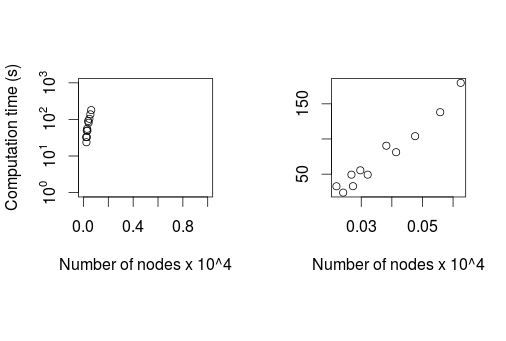
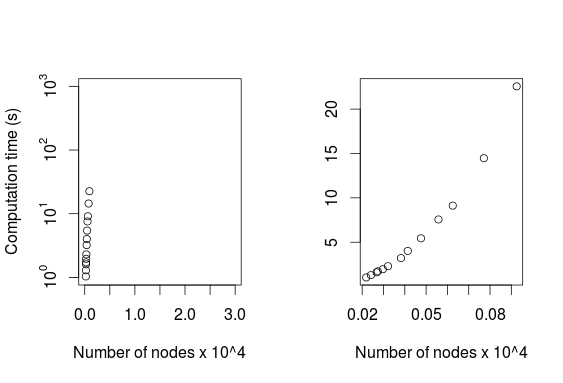
converted package from aont to RGBL

diff --git a/README.md b/README.md
@@ -1,9 +1,9 @@
 dciR
 ====
 
-A modification of the directional connectivity index calculation from Larsen et al. (2012). Essentially replaces [MatlabBGL](http://dgleich.github.com/matlab-bgl/) with [octave-networks-toolbox](https://github.com/aeolianine/octave-networks-toolbox). For convenience, Octave is called from R using [RcppOctave](http://cran.r-project.org/web/packages/RcppOctave/index.html).
+A modification of the directional connectivity index calculation from Larsen et al. (2012). Essentially replaces [MatlabBGL](http://dgleich.github.com/matlab-bgl/) with [RBGL](http://www.bioconductor.org/packages/release/bioc/html/RBGL.html). For convenience, Octave is called from R using [RcppOctave](http://cran.r-project.org/web/packages/RcppOctave/index.html).
 
-Requires Octave and RcppOctave (verified to work with version 3.8.1 and 0.14.5 respectively)
+Requires RBGL, Octave, and RcppOctave (verified to work with version 3.8.1 and 0.14.5 respectively)
 
 
 
@@ -11,14 +11,17 @@ Requires Octave and RcppOctave (verified to work with version 3.8.1 and 0.14.5 r
   ```R
   install.packages('devtools')  # package devtools needed
   devtools::install_github('jsta/dciR')
+  
+  source("http://bioconductor.org/biocLite.R")
+  biocLite("RBGL")
+  #biocLite("Rgraphviz")
   ```
   
 ## Examples
    ```R
    #The example below reproduces figure 3 from Larsen et al. (2012)#####
    library(dciR)
-   library(RcppOctave)
-   
+      
    #load test matricies####
    ma <- matrix(c(0,0,1,0,0,0,1,0,1,0,0,1,0,0,1,0,0,0,1,0,1,1,0,0,0),nrow=5,byrow=T)
    mb <- matrix(c(1,1,1,0,0,0,0,0,0,0,0,0,1,1,1,0,0,0,0,0,1,1,1,0,0),nrow=5,byrow=T)
@@ -31,11 +34,12 @@ Requires Octave and RcppOctave (verified to work with version 3.8.1 and 0.14.5 r
    library(jpeg)
    library(raster)
    
-   c1<-readJPEG("inst/conserved1.jpg")
-   c2<-readJPEG("inst/conserved2.jpg")
-   s1<-readJPEG("inst/sim1.jpg")
-   r1<-readJPEG("inst/rotated1.jpg")
-   d1<-readJPEG("inst/degraded1.jpg")
+   c1<-readJPEG(system.file("images","conserved1.jpg",package="dciR"))
+   c2<-readJPEG(system.file("images","conserved2.jpg",package="dciR"))
+   s1<-readJPEG(system.file("images","sim1.jpg",package="dciR"))
+   r1<-readJPEG(system.file("images","rotated1.jpg",package="dciR"))
+   d1<-readJPEG(system.file("images","degraded1.jpg",package="dciR"))
+   
    
    c1<-raster(matrix(c1,nrow=dim(c1)[1],ncol=dim(c1)[2]))<0.4
    c2<-raster(matrix(c2,nrow=dim(c2)[1],ncol=dim(c2)[2]))<0.4
@@ -53,7 +57,7 @@ Requires Octave and RcppOctave (verified to work with version 3.8.1 and 0.14.5 r
    
    #The example below reproduces Figure 5####
    ret<-list()
-   aglist<-12:22
+   aglist<-10:22
    
    ag_dci<-function(c1,ag){
    c1r<-aggregate(c1,ag,fun=median)>0.7
@@ -69,7 +73,7 @@ Requires Octave and RcppOctave (verified to work with version 3.8.1 and 0.14.5 r
    ret<-cbind(matrix(unlist(ret),ncol=7,byrow=T),aglist)
    
    par(mfrow=c(1,2))
-   plot(ret[,7]/10000,ret[,1],log="y",yaxt="n",xlim=c(0,1),ylim=c(1,1000),xlab="Number of nodes x 10^4",ylab="Computation time (s)")
+   plot(ret[,7]/10000,ret[,1],log="y",yaxt="n",xlim=c(0,3),ylim=c(1,1000),xlab="Number of nodes x 10^4",ylab="Computation time (s)")
    labels<-sapply(seq(0,3,1),function(i) as.expression(bquote(10^ .(i))))
    axis(2,at=c(1,10,100,1000),labels=labels)
    
